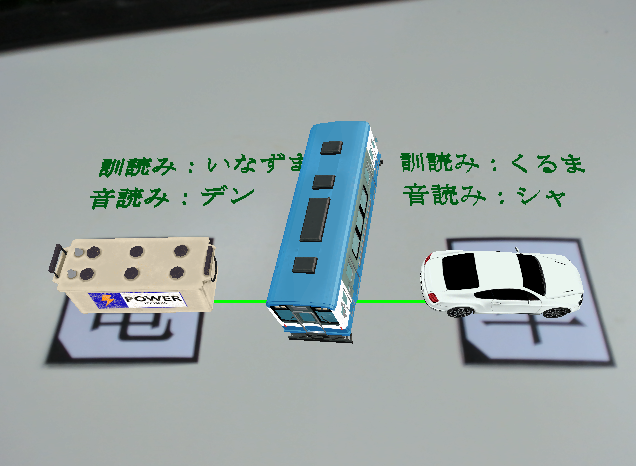
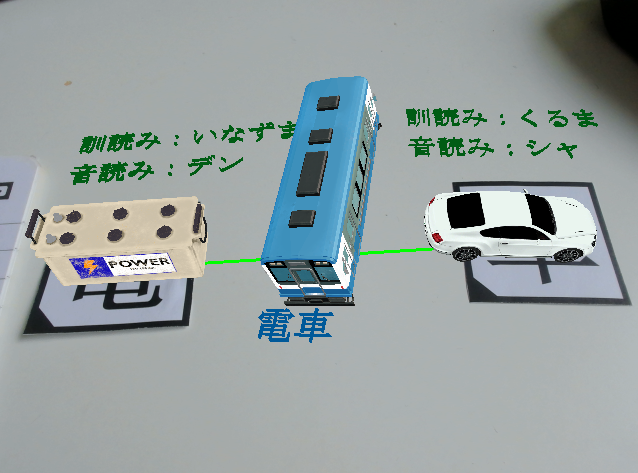
Add final FEAT: display Kanji for tangos & tesseract whitelist for accuracy

diff --git a/Main.cpp b/Main.cpp
@@ -140,12 +140,11 @@ void renderObjs(Tracker tracker, MetaManager metaManager, GLuint program, FTFont
         }
     }
 }
-
 // Rendering the possible monjis combination => tangos
-void renderCombis(Tracker tracker, MetaManager modelManager, GLuint program) {
+void renderCombis(Tracker tracker, MetaManager modelManager, GLuint program, FTFont* font) {
     glEnable(GL_DEPTH_TEST);
     glMatrixMode(GL_MODELVIEW);
-    
+
     // Get the current furstum projection
     GLfloat projection[16];
     glGetFloatv(GL_PROJECTION_MATRIX, projection);
@@ -165,7 +164,7 @@ void renderCombis(Tracker tracker, MetaManager modelManager, GLuint program) {
         for (int i = 0; i < 4; i++) {
             m1MarkerCorners[i] += offset;
         }
-        
+
         // Now we have a virtual marker at the middle point of marker1 and marker2
 
         // Get the pose of that virtual marker
@@ -178,6 +177,25 @@ void renderCombis(Tracker tracker, MetaManager modelManager, GLuint program) {
             }
         }
 
+        glUseProgram(0);
+        glLoadMatrixf(resultTransposedMatrix);
+        glRotatef(-90, 1, 0, 0);
+        glRotatef(90, 0, 1, 0);
+        glRotatef(-90, 1, 0, 0);
+        glRotatef(180, 0, 0, 1);
+        glScalef(0.01, 0.01, 0.01);
+
+        // Set the Color for Font Rendering
+        glColor3f(0, 0.35, 0.6); // こんぺき -> https://irocore.com/konpeki/
+
+        // Rendering Tango Text
+        glTranslatef(-1, -5, 0);
+        font->Render((modelManager.getTangoById(std::get<2>(combiPair))).c_str());
+
+        glLoadIdentity();
+
+        glUseProgram(program);
+
         glm::mat4 tunning = modelManager.getModelTunningMatrix(std::get<2>(combiPair), glm::make_mat4(resultTransposedMatrix));
         GLuint location = glGetUniformLocation(program, "MVP");
         glUniformMatrix4fv(location, 1, GL_FALSE, glm::value_ptr(glm::make_mat4(projection) * tunning));
@@ -186,7 +204,6 @@ void renderCombis(Tracker tracker, MetaManager modelManager, GLuint program) {
         modelManager.getModelById(std::get<2>(combiPair)).draw(program);
     }
 }
-
 int main(int argc, char** argv)
 {
     // Read the meta.json contains the possible kanjis and tangos 
@@ -197,9 +214,6 @@ int main(int argc, char** argv)
     // Init FTGL font for text rendering in 3d
     FTFont* font = initFTGL();
     
-    // Init Tesseract for Kanji recognition
-    tesseract::TessBaseAPI* api = initTesseract();
-
     // Init OpenCV VideoStream read stream from camera
     cv::VideoCapture capture(0);
     if (!capture.isOpened()) {
@@ -238,14 +252,23 @@ int main(int argc, char** argv)
     std::cout << "GLEW okay - using version: " << glewGetString(GLEW_VERSION) << std::endl;
     initGL();
 
+    // MetaManager instance
+    // For loading Models of Monjis and Tangos
+    MetaManager metaManager = MetaManager(meta);
+
+    // Generate String for Tesseract char whitelist
+    std::string whiteListKanjis = "";
+    for (int i = 0; i < metaManager.getMonjisSize(); i++) {
+        whiteListKanjis += metaManager.getKanjiById(i);
+    }
+
+    // Init Tesseract for Kanji recognition
+    tesseract::TessBaseAPI* api = initTesseract(whiteListKanjis);
+
     // Tracker instance 
     // api => Tesseract API for recognizing marker content
     // meta["monji"] => only needs recognizing monjis part 
     Tracker tracker = Tracker(api, meta["monji"]);
-
-    // MetaManager instance
-    // For loading Models of Monjis and Tangos
-    MetaManager metaManager = MetaManager(meta);
 
     // Compiled Shader program for rendering imported models with textures
     GLuint program = getShaderProgram(FRAGMENT_SHADER_PATH, VERTEX_SHADER_PATH);
@@ -277,7 +300,7 @@ int main(int argc, char** argv)
 
         // Render found Tangos
         glUseProgram(program);
-        renderCombis(tracker, metaManager, program);
+        renderCombis(tracker, metaManager, program, font);
 
         // Clean all maps of old frame
         tracker.cleanDetectedMarkers();

diff --git a/Util.h b/Util.h
@@ -36,7 +36,7 @@
 #define WINDOW_HEIGHT 480
 #define WINDOW_WIDTH 640
 
-#define DRAW_ALL_LINES 0
+#define DRAW_ALL_LINES 1
 
 /* PI */
 #ifndef M_PI
@@ -112,7 +112,7 @@ GLuint getShaderProgram(std::string fshader, std::string vshader)
 }
 
 // Init Tesseract API for Character Recognition
-tesseract::TessBaseAPI* initTesseract() {
+tesseract::TessBaseAPI* initTesseract(std::string whitelist) {
     tesseract::TessBaseAPI* api = new tesseract::TessBaseAPI();
     // Set DATA_PATH to traindata path
     if (api->Init(TESSERACT_DATA_PATH, "jpn", tesseract::OcrEngineMode::OEM_TESSERACT_ONLY)) {
@@ -122,6 +122,7 @@ tesseract::TessBaseAPI* initTesseract() {
     api->SetVariable("user_defined_dpi", "300");
     // block numbers and some special characters
     api->SetVariable("tessedit_char_blacklist", "0123456789!@#$%^&*()_+-=");
+    api->SetVariable("tessedit_char_whitelist", whitelist.c_str());
     // set Page Segmentation mode to detect just for single char (kanji)
     api->SetPageSegMode(tesseract::PSM_SINGLE_CHAR);
 

diff --git a/MetaManager.h b/MetaManager.h
@@ -28,6 +28,14 @@ class MetaManager {
                 modelMap[tangos[i]["id"].asInt()] = model;
             }
         }
+         
+        int getMonjisSize() {
+            return monjis.size();
+        }
+
+        int getTangosSize() {
+            return tangos.size();
+        }
 
         int getIdByKanji(std::string kanji) {
             for (int i = 0; i < monjis.size(); i++) {
@@ -42,6 +50,15 @@ class MetaManager {
             for (int i = 0; i < monjis.size(); i++) {
                 if (id == monjis[i]["id"].asInt()) {
                     return monjis[i]["kanji"].asString();
+                }
+            }
+            return "";
+        }
+
+        std::string getTangoById(int id) {
+            for (int i = 0; i < tangos.size(); i++) {
+                if (id == tangos[i]["id"].asInt()) {
+                    return tangos[i]["kanji"].asString();
                 }
             }
             return "";
